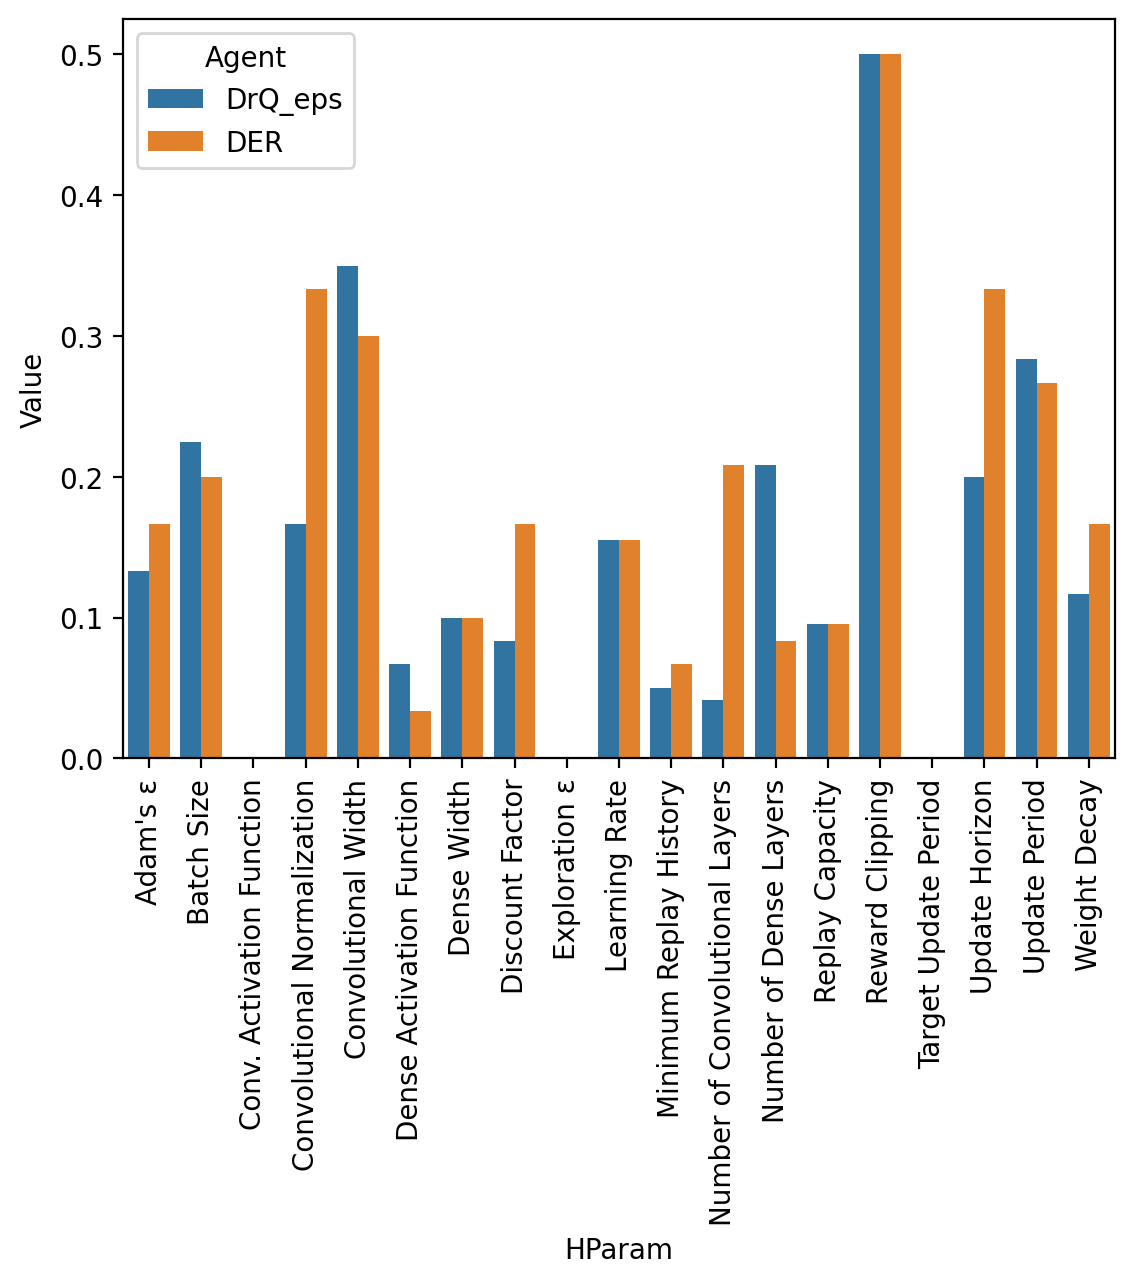
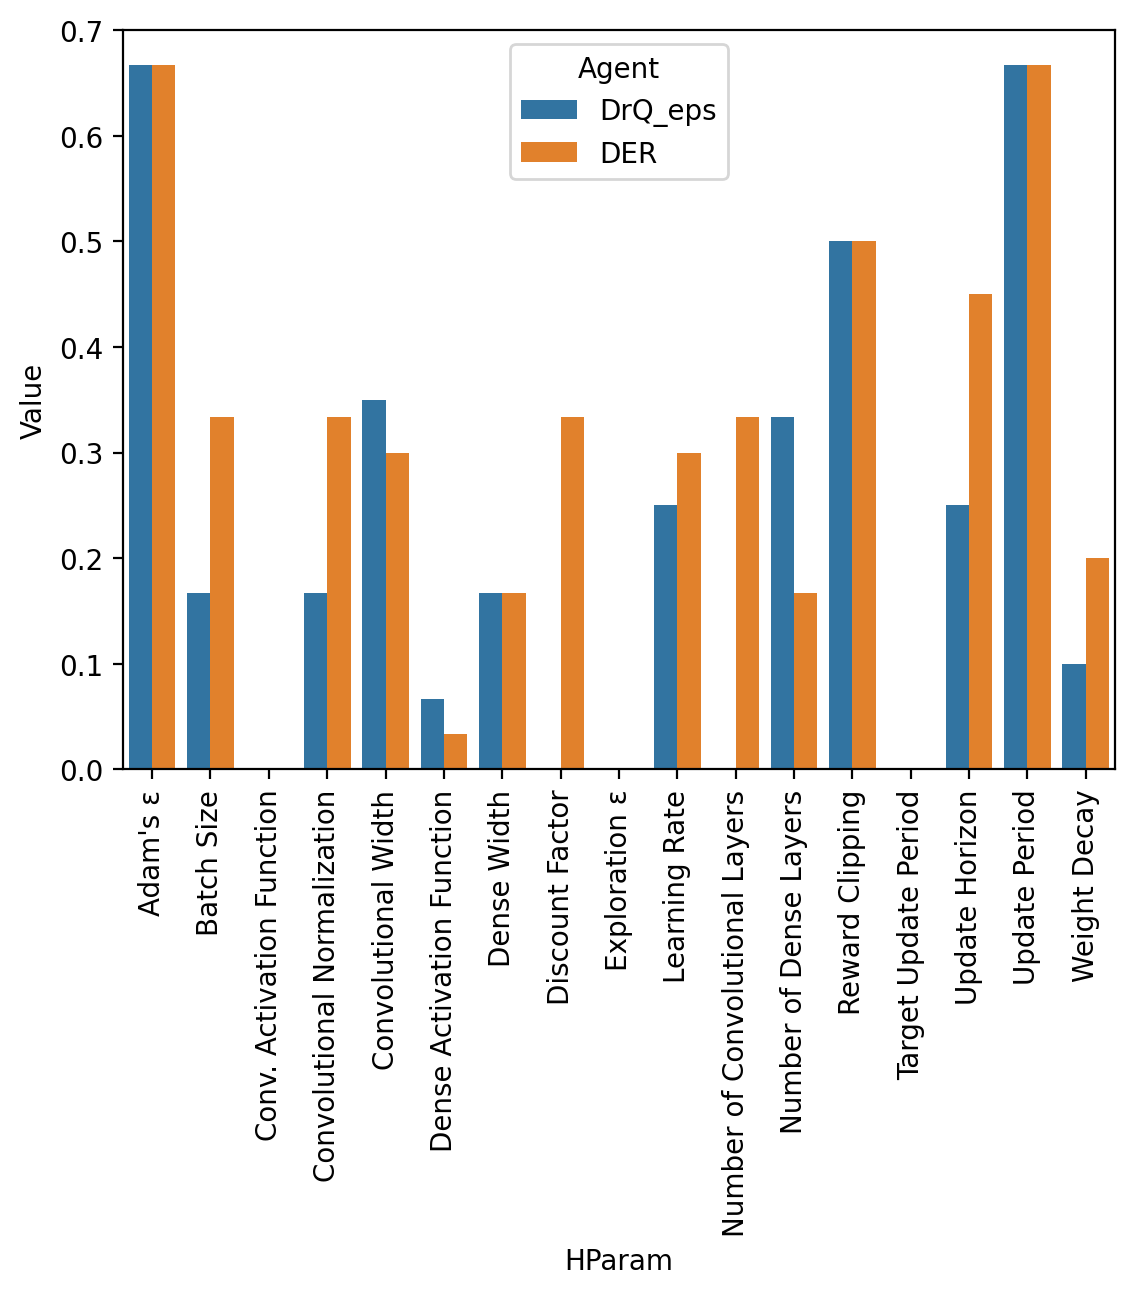
fix data regime

diff --git a/precompute.py b/precompute.py
@@ -13,14 +13,14 @@ from plot_data import plot_game, plot_hparam, ATARI_100K_GAMES, experiments_mapp
 from utils import get_agent_metric, get_this_metric
 
 
-for scale in ["100k", "40M"]:
-    for ag in ["DrQ_eps", "DER"]:
-        for game in ATARI_100K_GAMES:
-            fig = plot_game(ag, game, scale)
-            save_dir = f"figures/{scale}_experiments/game_comparison/{game}"
-            if not os.path.isdir(save_dir):
-                os.makedirs(save_dir)
-            fig.savefig(f"{save_dir}/{ag}.png", bbox_inches='tight')
+# for scale in ["100k", "40M"]:
+#     for ag in ["DrQ_eps", "DER"]:
+#         for game in ATARI_100K_GAMES:
+#             fig = plot_game(ag, game, scale)
+#             save_dir = f"figures/{scale}_experiments/game_comparison/{game}"
+#             if not os.path.isdir(save_dir):
+#                 os.makedirs(save_dir)
+#             fig.savefig(f"{save_dir}/{ag}.png", bbox_inches='tight')
 
 
 # for scale in ["100k", "40M"]:
@@ -94,27 +94,31 @@ Get THIS metric between the 2 agents
 #     plt.savefig(f"figures/{data_regime}_experiments/importance_score/THIS_agents.pdf", bbox_inches='tight')
 
 """THIS metric between data regimes"""
-# pd_dict = {'Agent': [], 'HParam': [], 'Value': []}
+pd_dict = {'Agent': [], 'HParam': [], 'Value': []}
 
-# for k, hparam in experiments_mapping.items():
-#     if hparam == "num_atoms":
-#         continue
-#     if hparam == "normalizations":
-#         continue
-#     data = dict()
-#     with open(f'data/100k_experiments/final_perf/{hparam}.pickle', mode='rb') as f:
-#         data["100k"] = pickle.load(f)
-#     with open(f'data/40M_experiments/final_perf/{hparam}.pickle', mode='rb') as f:
-#         data["40M"] = pickle.load(f)
-#     keys = list(data["100k"].keys())
-#     for agent, hp_key in zip(["DrQ_eps", "DER"], keys):
-#         hparam_val =  get_agent_metric(data["100k"][f"{agent}_{hparam}"],
-#                                        data["40M"][f"{agent}_{hparam}"])
-#         pd_dict['Agent'].append(agent)
-#         pd_dict['HParam'].append(k)
-#         pd_dict['Value'].append(hparam_val[0])
-# df = pd.DataFrame(pd_dict)
-# sns.barplot(data=df, x='HParam', y='Value', hue='Agent')
-# plt.xticks(rotation = 90)
-# plt.savefig("figures/split/importance_score/THIS_data_regimes.pdf", bbox_inches='tight')
-# plt.savefig("figures/split/importance_score/THIS_data_regimes.png", bbox_inches='tight')
+for k, hparam in experiments_mapping.items():
+    if hparam == "num_atoms" or hparam == "min_replay_history":
+        continue
+    if hparam == "normalizations" or hparam == "replay_capacity":
+        continue
+    data = dict()
+    with open(f'data/100k_experiments/final_perf/{hparam}.pickle', mode='rb') as f:
+        data["100k"] = pickle.load(f)
+    with open(f'data/40M_experiments/final_perf/{hparam}.pickle', mode='rb') as f:
+        data["40M"] = pickle.load(f)
+    keys = list(data["100k"].keys())
+    for agent, hp_key in zip(["DrQ_eps", "DER"], keys):
+        data["100k"][f"{agent}_{hparam}"] = {
+            k: data["100k"][f"{agent}_{hparam}"][k]
+            for k in data["40M"][f"{agent}_{hparam}"].keys()
+        }
+        hparam_val =  get_agent_metric(data["100k"][f"{agent}_{hparam}"],
+                                       data["40M"][f"{agent}_{hparam}"])
+        pd_dict['Agent'].append(agent)
+        pd_dict['HParam'].append(k)
+        pd_dict['Value'].append(hparam_val[0])
+df = pd.DataFrame(pd_dict)
+sns.barplot(data=df, x='HParam', y='Value', hue='Agent')
+plt.xticks(rotation = 90)
+plt.savefig("figures/split/importance_score/THIS_data_regimes.pdf", bbox_inches='tight')
+plt.savefig("figures/split/importance_score/THIS_data_regimes.png", bbox_inches='tight')
